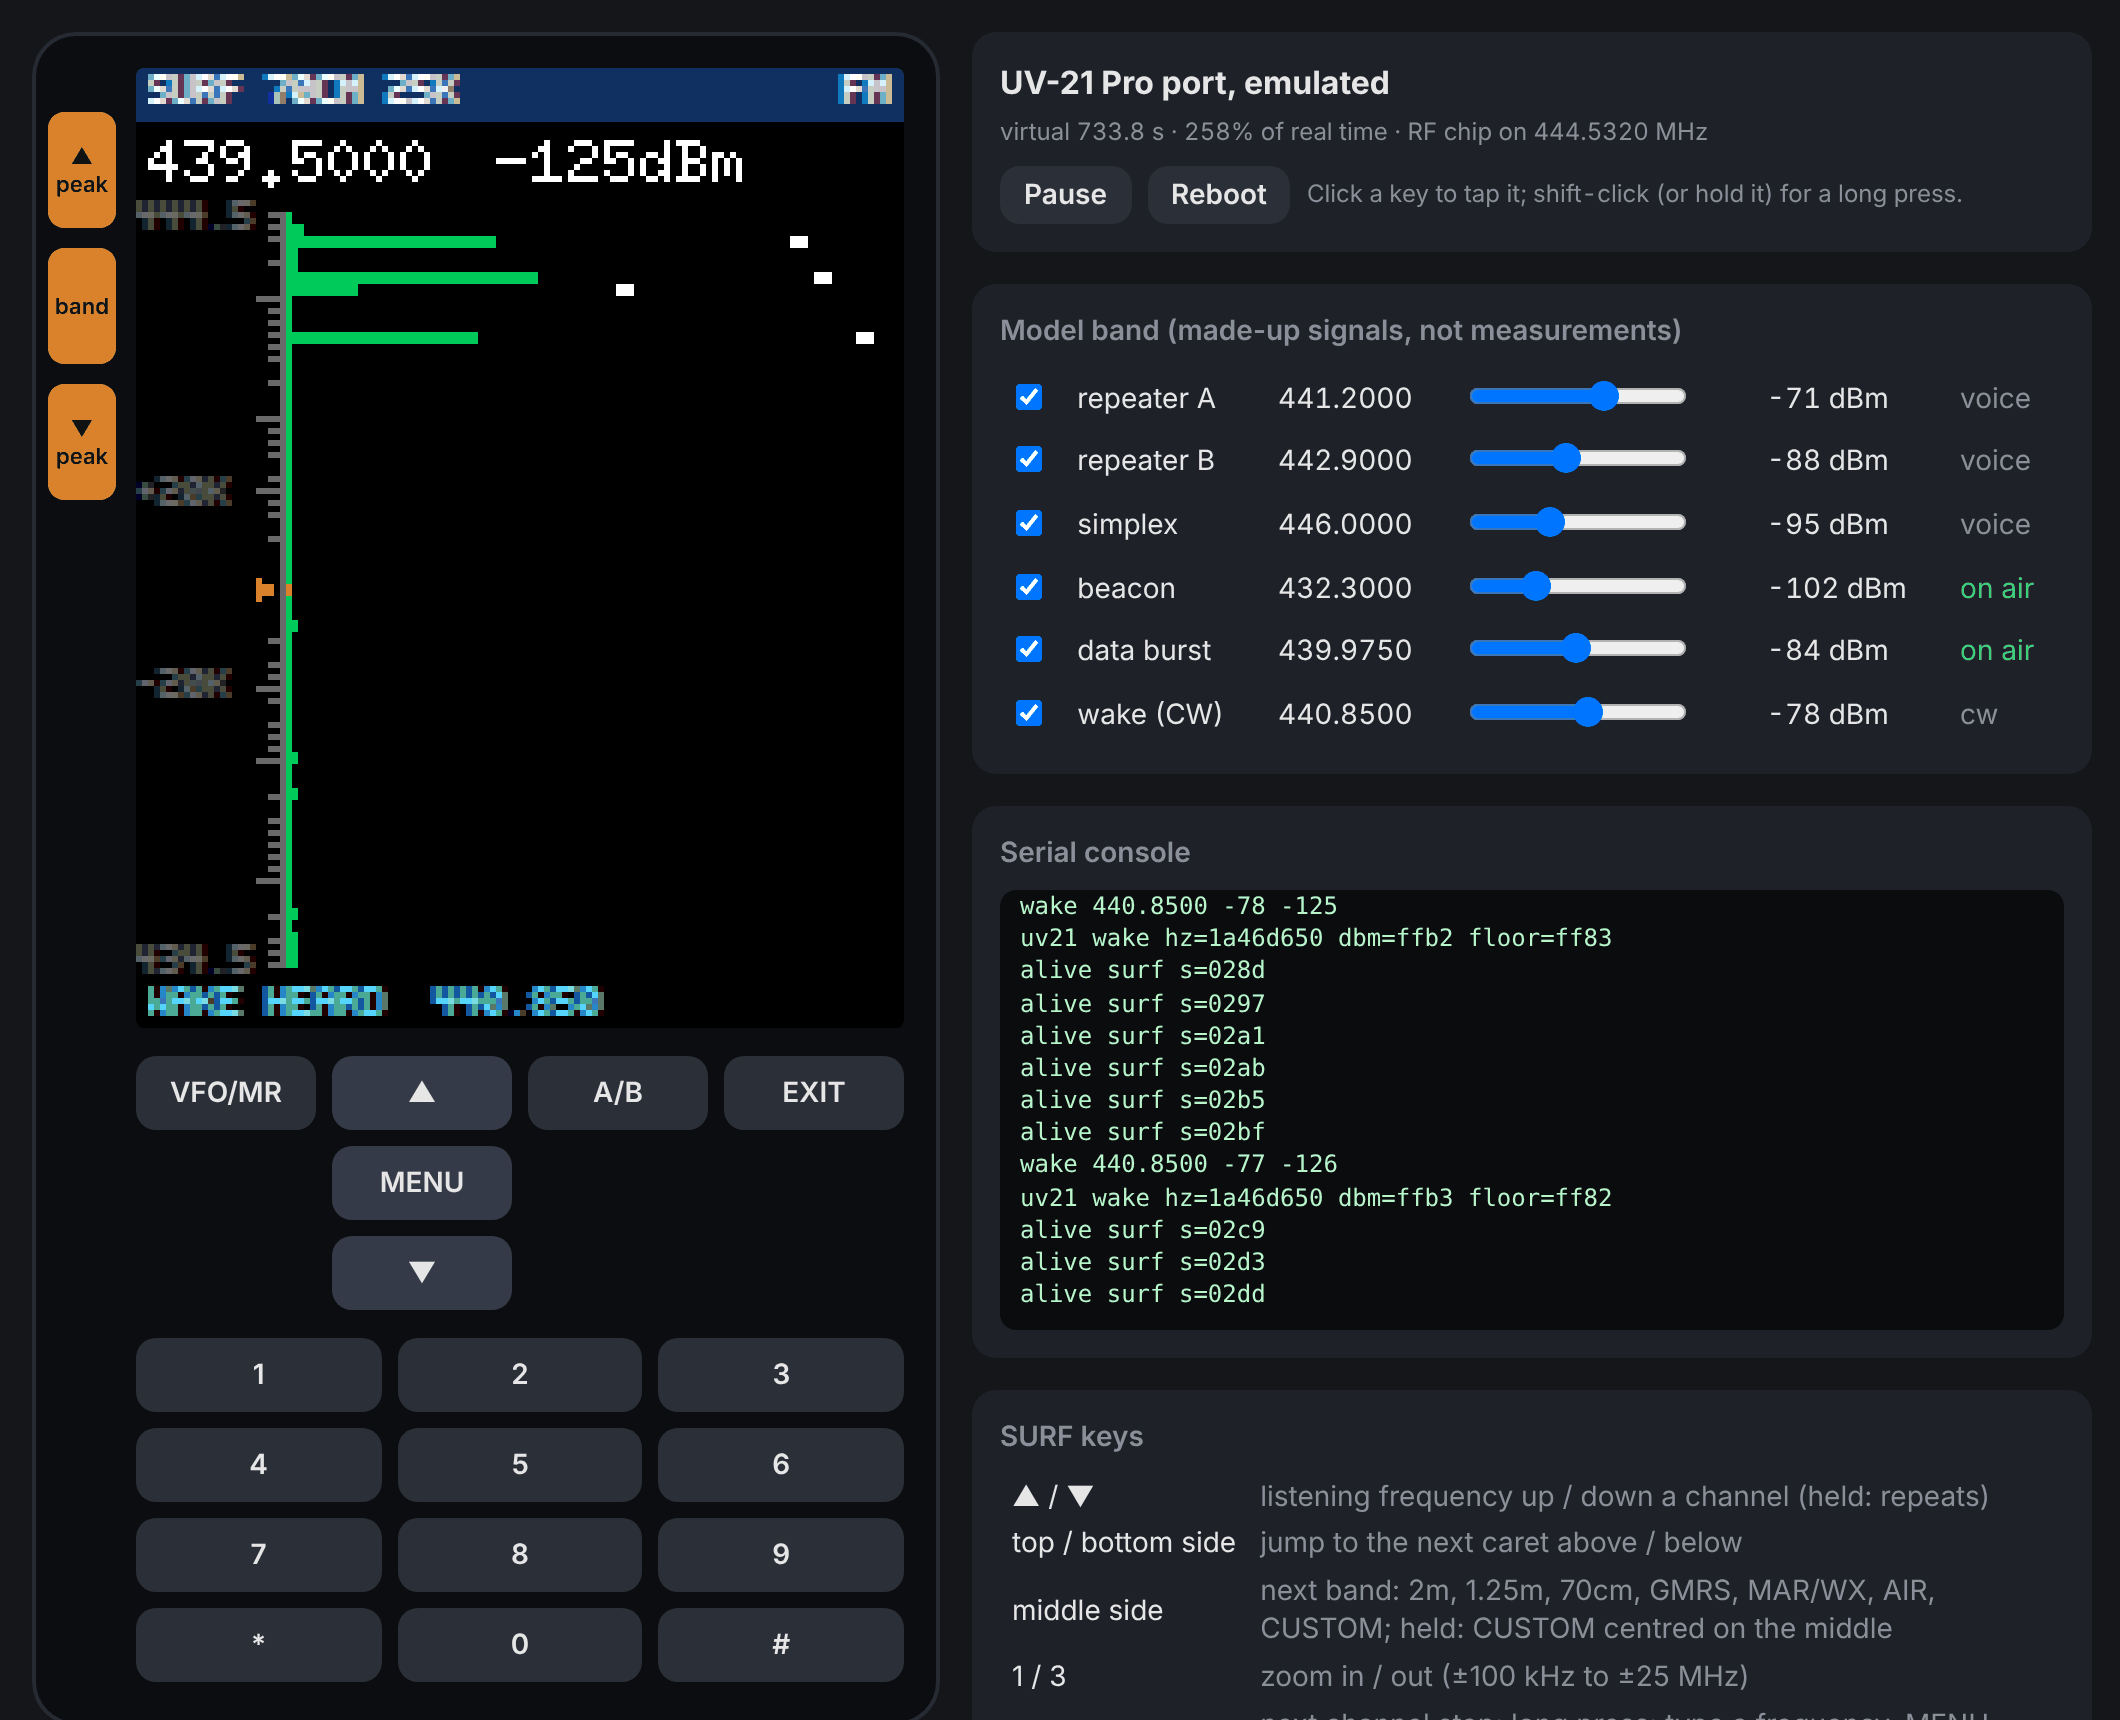
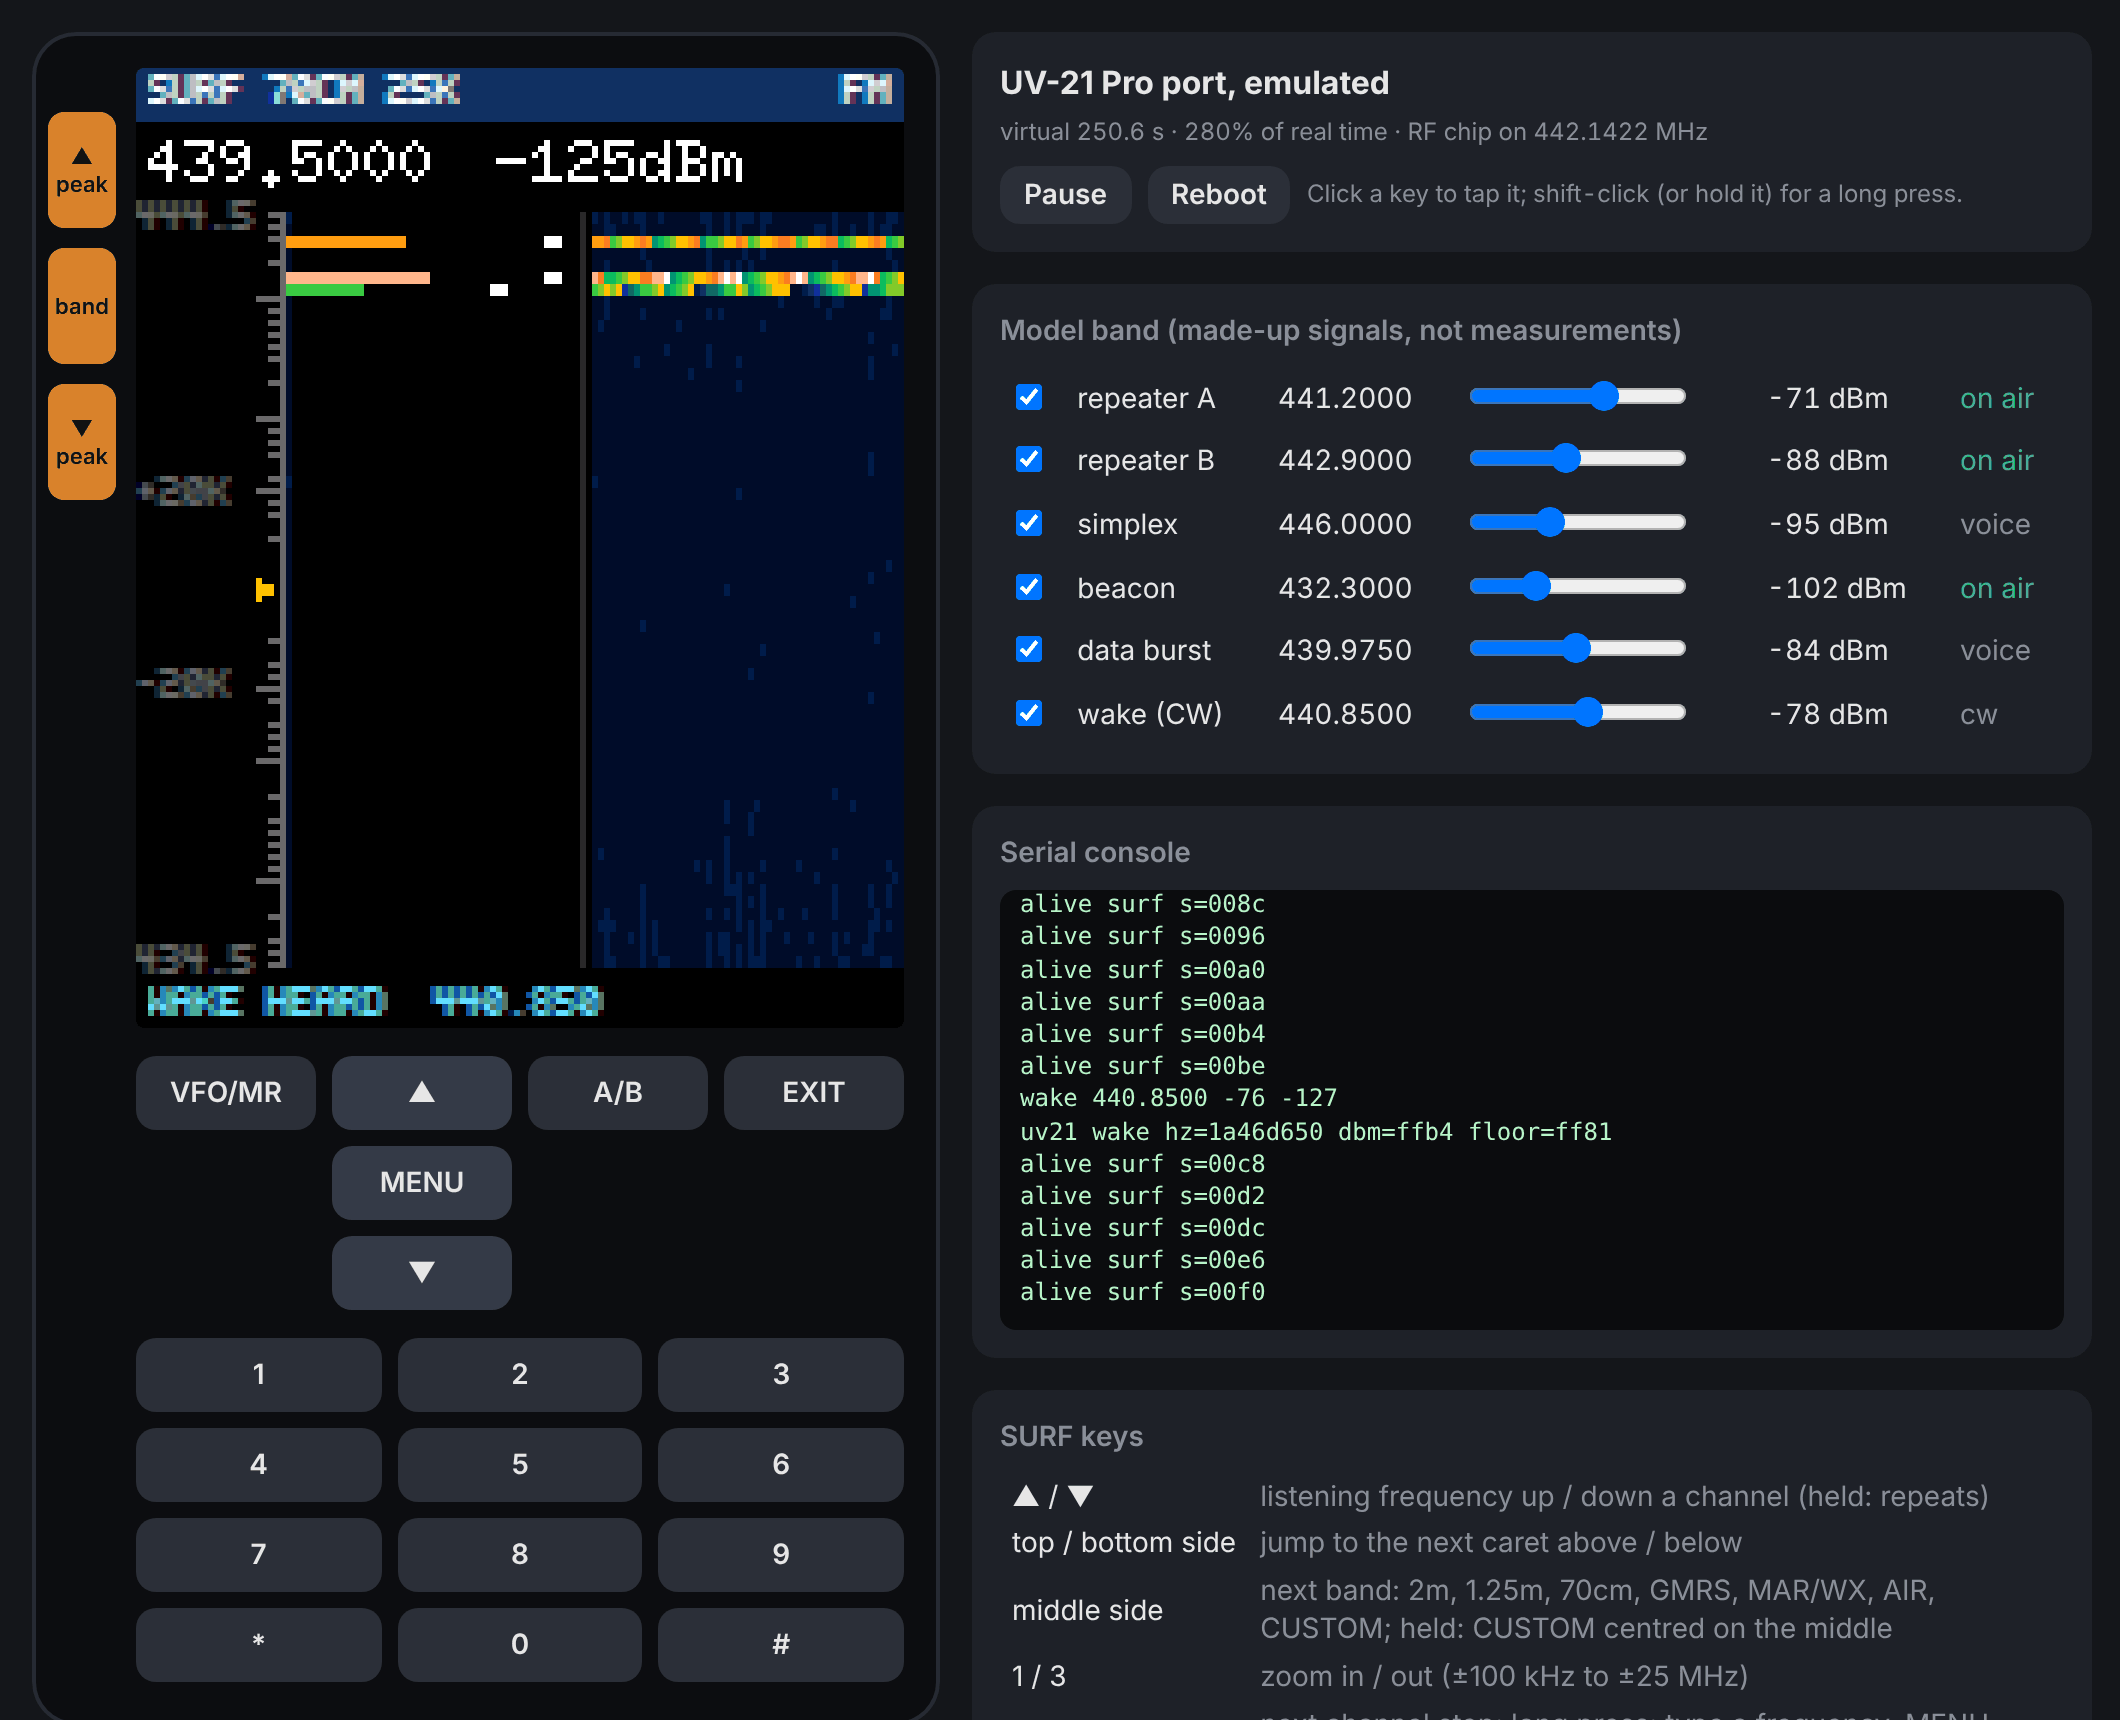
Docs: UV-21 SURF's history strip and heat-coloured bars (port 18)
- docs/img/surf/uv21-history.png: the operator's screenshot of port 18 SURF on MAR/WX in the
  workbench, the history strip on the right.
- docs/img/surf/uv21.png and uv21-workbench.png rendered again from main 4a924ae (port 18),
  same steps as before, so the README's UV-21 shots show the heat colours and the strip.
- README: what the colours and the strip are; sim/uv21/README.md shows the workbench and the
  history screenshot.

Claude-Session: https://claude.ai/code/session_01EkN2wXLgjRjkHcV2hcUvyN

diff --git a/README.md b/README.md
@@ -47,11 +47,20 @@ explorer saved, so the bottom line shows its call, offset and tone; TUNE, typing
 ![K6 SURF: the band, a saved repeater playing, TUNE](docs/img/surf/k6.png)
 
 **UV-21 Pro** (its main screen, `radios/uv21/surf/uv21_surf.c`). The tall screen turns SURF on its
-side, higher frequencies at the top. Left to right: +-5 MHz with the carets of five stations;
-the top side key's jump to a repeater playing (RX); TUNE, typing 446. WAKE HEARD on the bottom
-line is the CW wake on 440.850 MHz, heard while it surfed.
+side, higher frequencies at the top. Since port 18 the bars are coloured by their level over the
+floor, 3 dB a step (navy, blue, green, yellow, orange, white), and right of them a history strip
+carries those colours across: one pixel column a finished sweep, the newest at the left, about
+40 s of history kept in RAM. When the middle moves, the trails move with it and stay on their
+frequencies. Left to right: +-5 MHz with the carets of five stations; the top side key's jump to
+a repeater playing (RX); TUNE, typing 446. WAKE HEARD on the bottom line is the CW wake on
+440.850 MHz, heard while it surfed.
 
 ![UV-21 Pro SURF: the band, a repeater playing, TUNE](docs/img/surf/uv21.png)
+
+The same screen on MAR/WX (marine and NOAA weather), from the port 18 workbench: the strip shows which
+channels came and went over the last sweeps.
+
+![UV-21 Pro SURF on MAR/WX, with the history strip](docs/img/surf/uv21-history.png)
 
 **RT-950 Pro** (`radios/rt950/src/surf2.c`). Chip 1 sweeps all the time and chip 0 listens, so
 the audio never stops for a sweep; chip 0's own level fills the cyan bins round the middle. These

diff --git a/sim/uv21/README.md b/sim/uv21/README.md
@@ -5,6 +5,13 @@ page: the radio's screen, a faceplate you can click, the serial console, and a m
 stations you can switch on and off or turn up and down. It is for test-driving SURF and the
 other screens without a radio.
 
+![The workbench: the emulated UV-21 Pro surfing the model band](../../docs/img/surf/uv21-workbench.png)
+
+SURF there since port 18: the bars in heat colours by their level over the floor, and the history
+strip right of them, one column a sweep, the newest at the left (here on MAR/WX):
+
+![SURF on MAR/WX with the history strip](../../docs/img/surf/uv21-history.png)
+
     python3 -m sim.uv21                     # then open http://127.0.0.1:5057/
     python3 -m sim.uv21 --host 0.0.0.0      # reachable from the LAN (there is no login)
 
